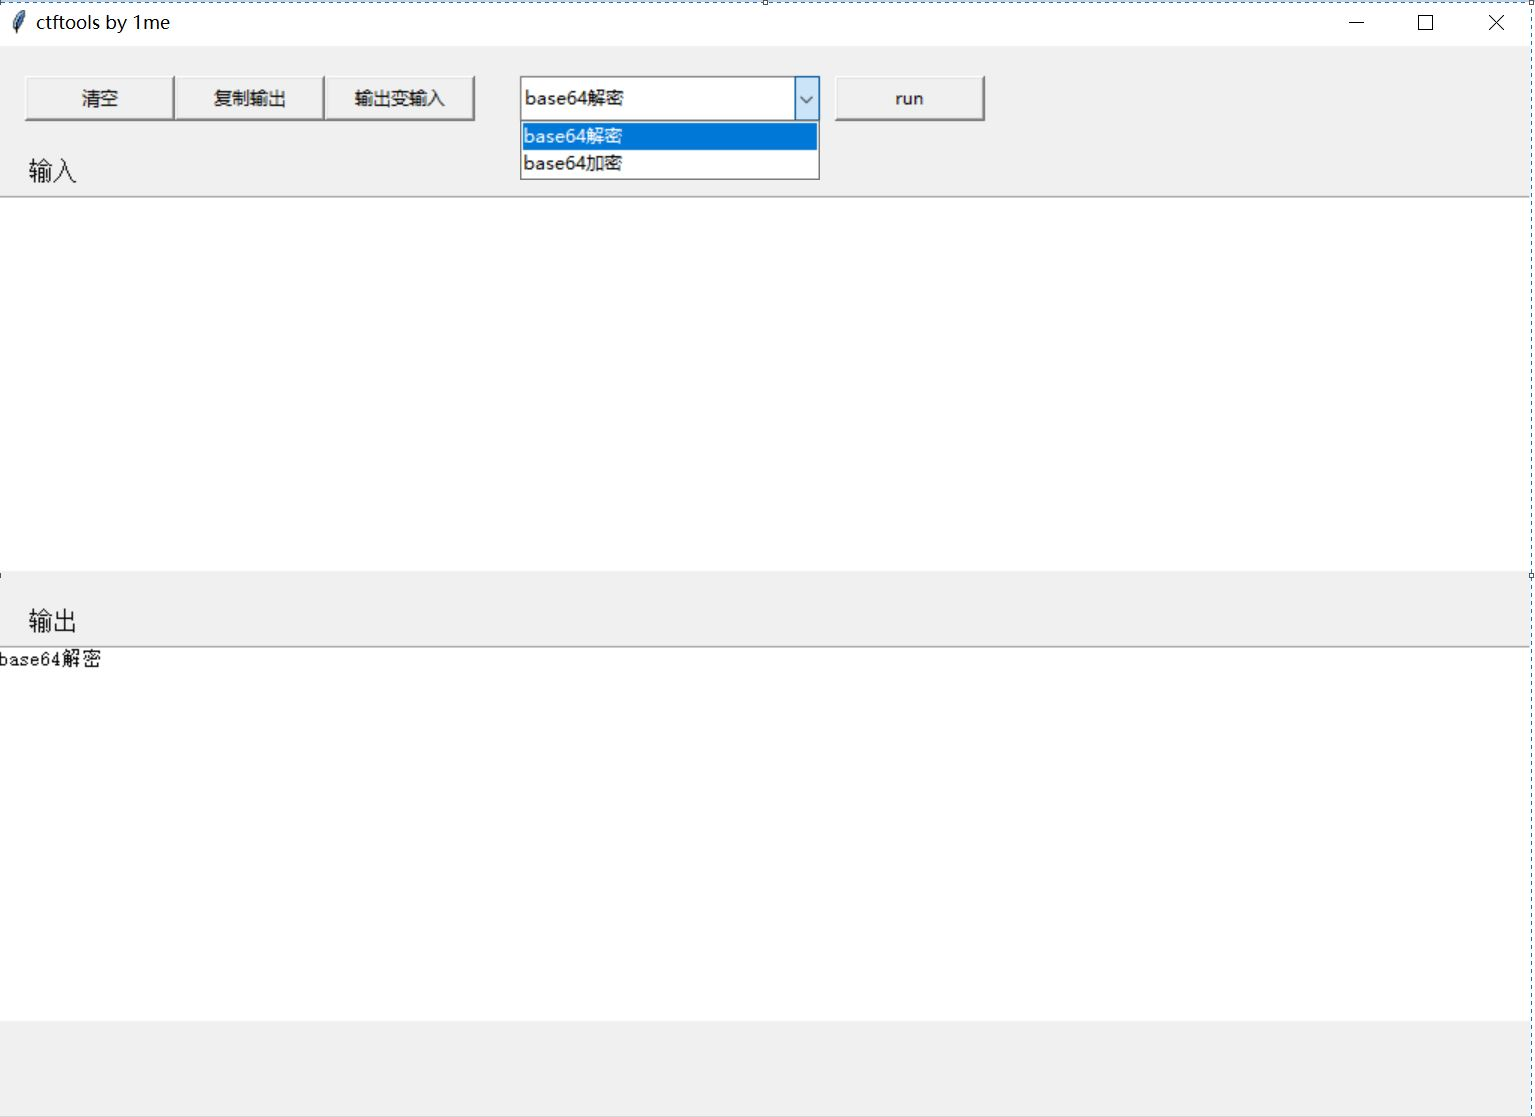
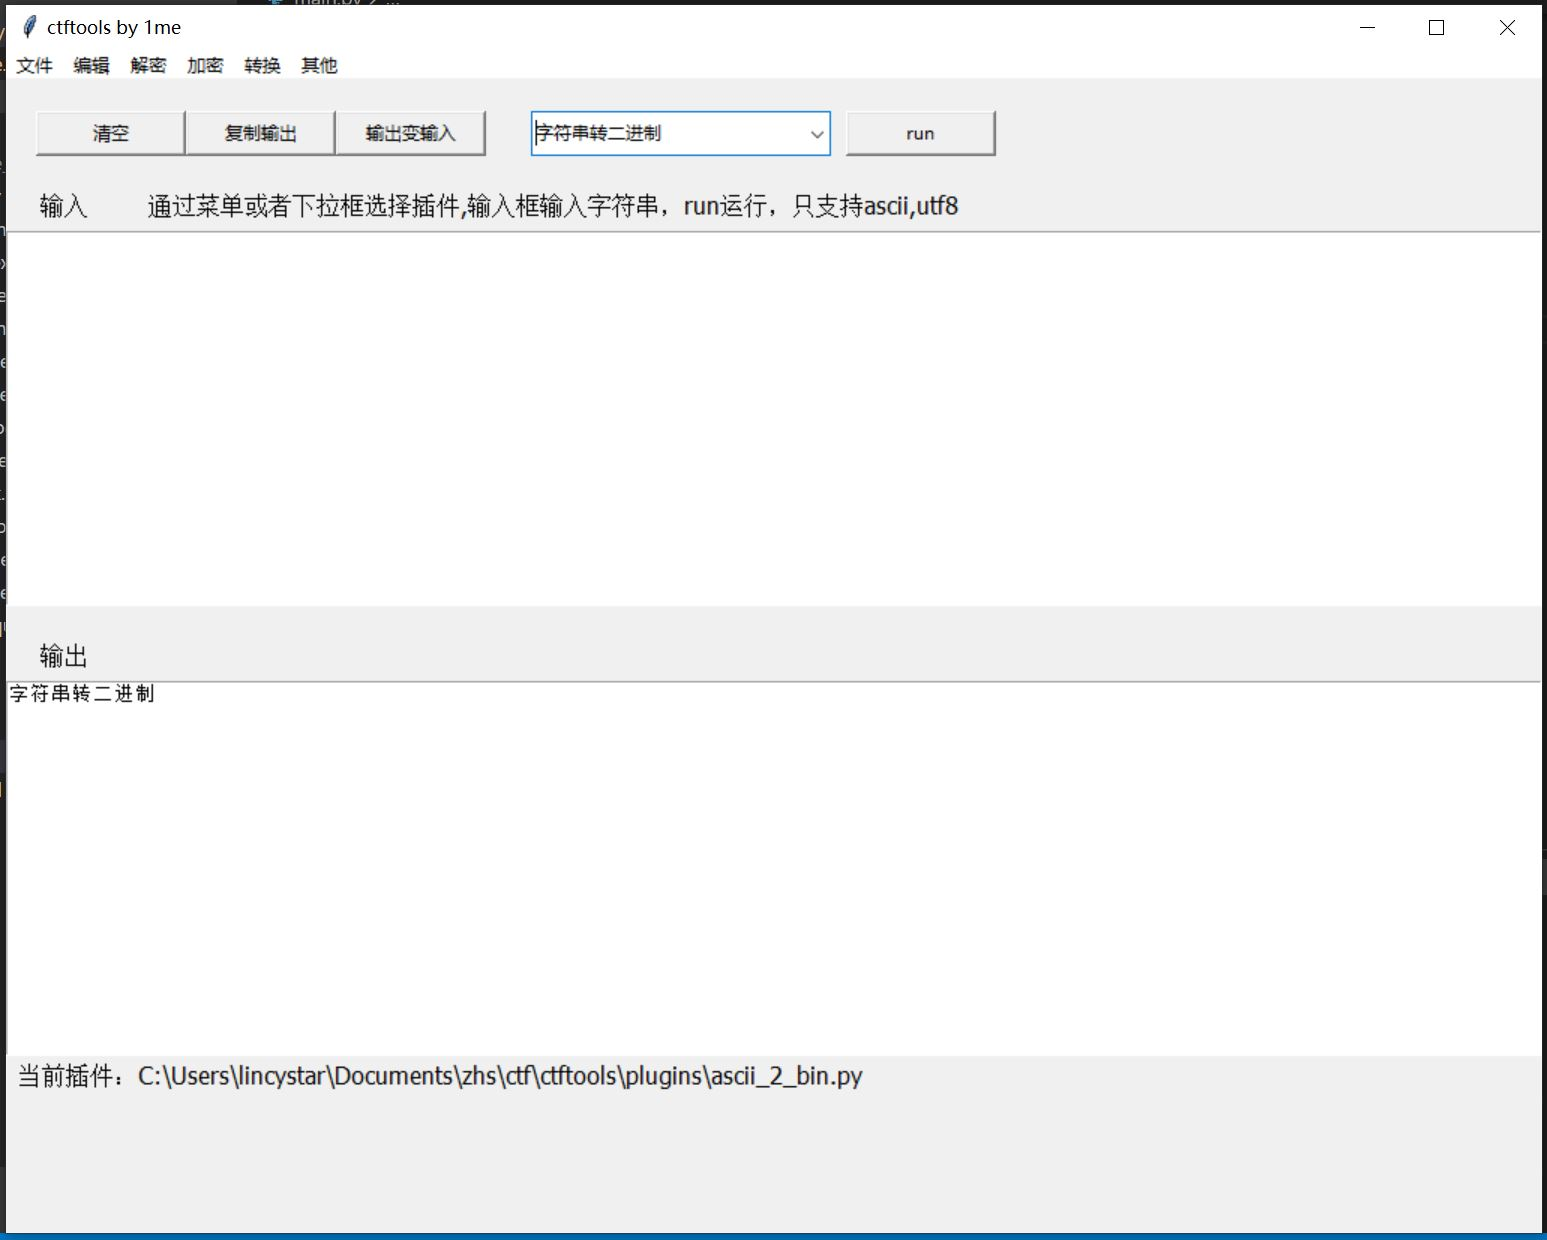
增加了menu

Changed region(s): [[0.0, 0.0, 1.0, 1.0]]

diff --git a/main.py b/main.py
@@ -1,5 +1,6 @@
 import tkinter
 from tkinter import ttk
+from tkinter import filedialog
 import pyperclip
 import os
 import imp
@@ -9,8 +10,8 @@ root.title("ctftools by 1me")
 root.geometry("1024x768")
 
 #-----插件加载begin-----
-module_dict = None
-plugin_dict = {}
+plugin_now = None
+plugins_dict = {}
 pwd_path = os.getcwd()
 plugin_path = os.path.join(pwd_path, "plugins")
 def find_chr_all_position(the_str,the_chr):
@@ -33,38 +34,49 @@ for root_path, dirs, files in os.walk(plugin_path):
                     pos_list = find_chr_all_position(line, "\"")
                     if len(pos_list) >= 2 and pos_list[-1] < len(line):
                         plugin_name = line[pos_list[0]+1:pos_list[-1]]
-                        if plugin_name not in plugin_dict.keys():
-                            plugin_dict[plugin_name] ={"path":module_file_path, "name":file, "module":None}
+                        if plugin_name not in plugins_dict.keys():
+                            plugins_dict[plugin_name] ={"path":module_file_path, "name":file, "module":None}
                     break
 
 
-def get_module_dict(val_name):
-    if val_name in plugin_dict.keys():
-        if plugin_dict[val_name]["module"] is None:
+def get_plugin_now(val_name):
+    if val_name in plugins_dict.keys():
+        if plugins_dict[val_name]["module"] is None:
             try:
-                plugin_dict[val_name]["module"] = imp.load_source(plugin_dict[val_name]["name"], plugin_dict[val_name]["path"])
+                plugins_dict[val_name]["module"] = imp.load_source(plugins_dict[val_name]["name"], plugins_dict[val_name]["path"])
             except Exception as e:
-                return None, plugin_dict[val_name]["path"]+"加载失败\r\n"+str(e)
-        module_dict = plugin_dict[val_name]
-        return module_dict, "ok"
+                return None, plugins_dict[val_name]["path"]+"加载失败\r\n"+str(e)
+        plugin_now = plugins_dict[val_name]
+        return plugin_now, "ok"
     return None, "error"
 #-----------------------------
+def get_plugin_info(plugin):
+    result = ""
+    try:
+        if plugin["module"] is not None:
+            result = "插件名称:"+plugin["module"].plugin_name
+            result += "\r\n插件版本:"+plugin["module"].plugin_version
+            result += "\r\n插件作者:"+plugin["module"].plugin_author
+            result += "\r\n编写时间:"+plugin["module"].plugin_time
+            result += "\r\n插件简介:"+plugin["module"].plugin_info
+    except:
+        pass
+    return result
 
-
-def go(*args):
-    global module_dict
+def comboxlist_callback(*args):
+    global plugin_now
     output_txt.delete("1.0", "end")
     val = comboxlist.get()
-    module_dict, ret = get_module_dict(val)
+    plugin_now, ret = get_plugin_now(val)
     if ret == "ok":
-        output_txt.insert("insert", module_dict["module"].plugin_info)
+        output_txt.insert("insert", get_plugin_info(plugin_now))
     else:
         output_txt.insert("insert", "load"+val+ret)
-    info_text.set("当前插件:"+module_dict["path"])
+    info_text.set("当前插件:"+plugin_now["path"])
 
 def delete_txt():
     input_txt.delete("1.0", "end")
-    output_txt.delete("1.0", "end")
+    #output_txt.delete("1.0", "end")
 
 
 def copy_to_pc():
@@ -75,17 +87,90 @@ def out_to_in():
     input_txt.delete("1.0", "end")
     mm = output_txt.get("0.0", "end").strip()
     input_txt.insert("insert", mm)
-    output_txt.delete("1.0", "end")
+    #output_txt.delete("1.0", "end")
 
 
 def run():
     output_txt.delete("1.0", "end")
     mm = input_txt.get("0.0", "end").strip()
-    if module_dict is not None:
-        output_txt.insert("insert", module_dict["module"].run(mm))
+    if plugin_now is not None:
+        output_txt.insert("insert", plugin_now["module"].run(mm))
     else:
         output_txt.insert("insert", "发生了未知错误")
 
+def openfile_2_input():
+    file_name = filedialog.askopenfilename(title="导入文件",filetypes=[('All Files','*'),('text',"*.txt")])
+    ff = open(file_name,"r",encoding="utf-8")
+    read=ff.read()
+    ff.close()
+    input_txt.delete("0.0","end")
+    input_txt.insert("insert",read)
+
+def input_2_file():
+    file_name = filedialog.asksaveasfilename(title="保存到",filetypes=[('All Files','*'),('text',"*.txt")])
+    ff = open(file_name,"w",encoding="utf-8")
+    ff.write(input_txt.get("0.0","end"))
+    ff.close()
+
+def output_2_file():
+    file_name = filedialog.asksaveasfilename(title="保存到",filetypes=[('All Files','*'),('text',"*.txt")])
+    ff = open(file_name,"w",encoding="utf-8")
+    ff.write(output_txt.get("0.0","end"))
+    ff.close()
+
+def cp_plugin_path():
+    pyperclip.copy(plugin_now["path"])
+
+def menu_callback(arg):
+    global plugin_now
+    output_txt.delete("0.0","end")
+    plugin_now, ret = get_plugin_now(arg)
+    if ret == "ok":
+        output_txt.insert("insert", get_plugin_info(plugin_now))
+        info_text.set("当前插件:"+plugin_now["path"])
+        comboxlist.set(arg)
+    else:
+        output_txt.insert("insert", "导入插件失败\r\n"+ret)
+
+#创建一个顶级菜单
+menubar = tkinter.Menu(root)
+#menubar.config(font="tahoma 24 normal")
+filemenu = tkinter.Menu(menubar,tearoff=False)
+filemenu.add_command(label="导入到输入", command= openfile_2_input)
+filemenu.add_command(label="保存输入到文件", command= input_2_file)
+filemenu.add_command(label="保存输出到文件", command= output_2_file)
+filemenu.add_separator()
+filemenu.add_command(label="退出", command= root.quit)
+menubar.add_cascade(label="文件", menu=filemenu)
+#--------------------------------------
+editmenu = tkinter.Menu(menubar,tearoff=False)
+editmenu.add_command(label="清空", command= delete_txt)
+editmenu.add_command(label="复制输出", command= copy_to_pc)
+editmenu.add_command(label="输出变输入", command= out_to_in)
+editmenu.add_command(label="复制当前插件路径", command= cp_plugin_path)
+menubar.add_cascade(label="编辑", menu=editmenu)
+#---------------------------------------
+decodemenu = tkinter.Menu(menubar,tearoff=False)
+encodemenu = tkinter.Menu(menubar,tearoff=False)
+exchangemenu = tkinter.Menu(menubar,tearoff=False)
+othermenu = tkinter.Menu(menubar,tearoff=False)
+for i in plugins_dict:
+    if "解密" in i or "解码" in i:
+        decodemenu.add_command(label=i, command=lambda arg=i:menu_callback(arg))
+    elif "加密" in i or "编码" in i:
+        encodemenu.add_command(label=i, command=lambda arg=i:menu_callback(arg))
+    elif "转" in i:
+        exchangemenu.add_command(label=i, command=lambda arg=i:menu_callback(arg))
+    else:
+        othermenu.add_command(label=i, command=lambda arg=i:menu_callback(arg))
+
+menubar.add_cascade(label="解密", menu=decodemenu)
+menubar.add_cascade(label="加密", menu=encodemenu)
+menubar.add_cascade(label="转换", menu=exchangemenu)
+menubar.add_cascade(label="其他", menu=othermenu)
+
+#显示菜单
+root.config(menu=menubar)
 
 tkinter.Button(root, text="清空", command=delete_txt).place(x=20, y=20, width=100, height=30, bordermode=tkinter.INSIDE)
 tkinter.Button(root, text="复制输出", command=copy_to_pc).place(x=120, y=20, width=100, height=30, bordermode=tkinter.INSIDE)
@@ -94,25 +179,25 @@ tkinter.Button(root, text="输出变输入", command=out_to_in).place(x=220, y=2
 
 comvalue = tkinter.StringVar()
 comboxlist = ttk.Combobox(root, textvariable=comvalue)
-comboxlist["values"] = list(plugin_dict.keys())
+comboxlist["values"] = list(plugins_dict.keys())
 comboxlist.current(0)
-comboxlist.bind("<<ComboboxSelected>>", go)
+comboxlist.bind("<<ComboboxSelected>>", comboxlist_callback)
 comboxlist.place(x=350, y=20, width=200, height=30, bordermode=tkinter.INSIDE)
 
 tkinter.Button(root, text="run", command=run).place(x=560, y=20, width=100, height=30, bordermode=tkinter.INSIDE)
 
-tkinter.Label(root, text="输入\t请在输入框输入字符串，只支持ascii,utf8", font="tahoma 12 normal").place(x=20, y=70)
+tkinter.Label(root, text="输入\t通过菜单或者下拉框选择插件,输入框输入字符串，run运行，只支持ascii,utf8", font="tahoma 12 normal").place(x=20, y=70)
 input_txt = tkinter.Text(root)
 input_txt.place(x=0,  y=100, width=1024, height=250)
 
 tkinter.Label(root, text="输出", font="tahoma 12 normal").place(x=20, y=370)
 output_txt = tkinter.Text(root)
 output_txt.place(x=0,  y=400, width=1024, height=250)
-module_dict, _ = get_module_dict(list(plugin_dict.keys())[0])
-output_txt.insert("insert", module_dict["module"].plugin_info)
+plugin_now, _ = get_plugin_now(list(plugins_dict.keys())[0])
+output_txt.insert("insert", get_plugin_info(plugin_now))
 
 info_text = tkinter.StringVar()
 info = tkinter.Label(root, textvariable= info_text, font="tahoma 12 normal")
 info.place(x=5, y=650)
-info_text.set("当前插件："+module_dict["path"])
+info_text.set("当前插件："+plugin_now["path"])
 root.mainloop()

diff --git a/plugins/ecc_attack.py b/plugins/ecc_attack.py
@@ -1,0 +1,16 @@
+
+plugin_name = "ecc常用攻击参考"
+plugin_version = "v1.1"
+plugin_author = "1me"
+plugin_time = "20200503"
+plugin_info = '''
+ecc常用攻击参考
+简析ECC攻击方法之Pohlig-Hellman 
+https://www.anquanke.com/post/id/159893
+https://hgarrereyn.gitbooks.io/th3g3ntl3man-ctf-writeups/2017/picoCTF_2017/problems/cryptography/ECC2/ECC2.html
+不用点run，这个没有实现方法
+'''
+
+
+def run(s):
+    return plugin_info

diff --git a/plugins/rsa_attack.py b/plugins/rsa_attack.py
@@ -7,6 +7,7 @@ plugin_info = '''rsa各种攻击方法参考
 https://blog.csdn.net/weixin_41038905/article/details/105827655
 https://findneo.github.io/180727rsa-attack/
 https://github.com/findneo/RSA-ATTACK
+不用点run，这个没有实现方法
 '''
 
 
